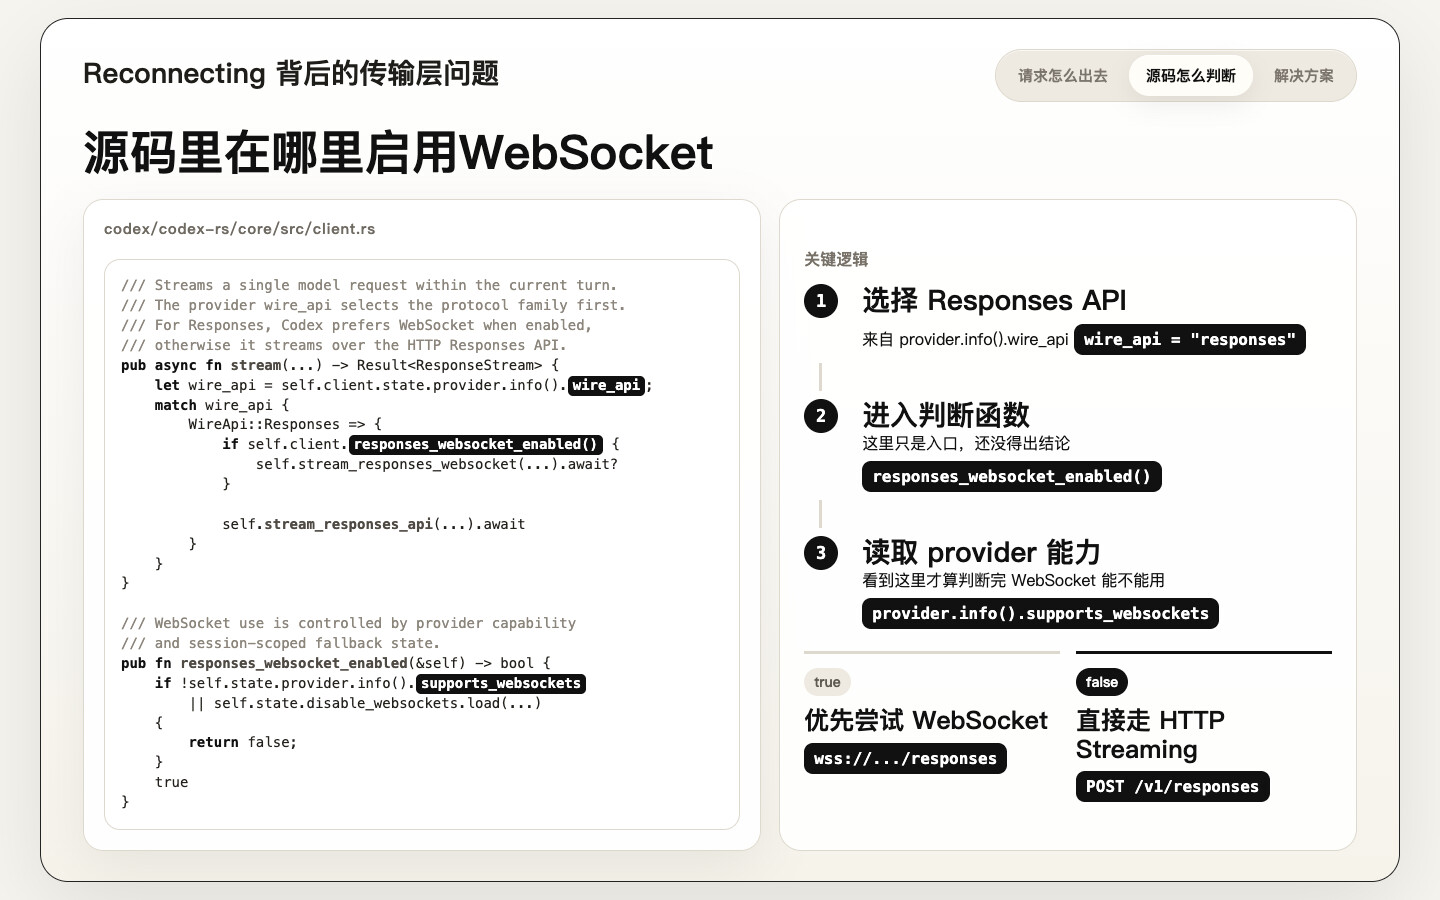
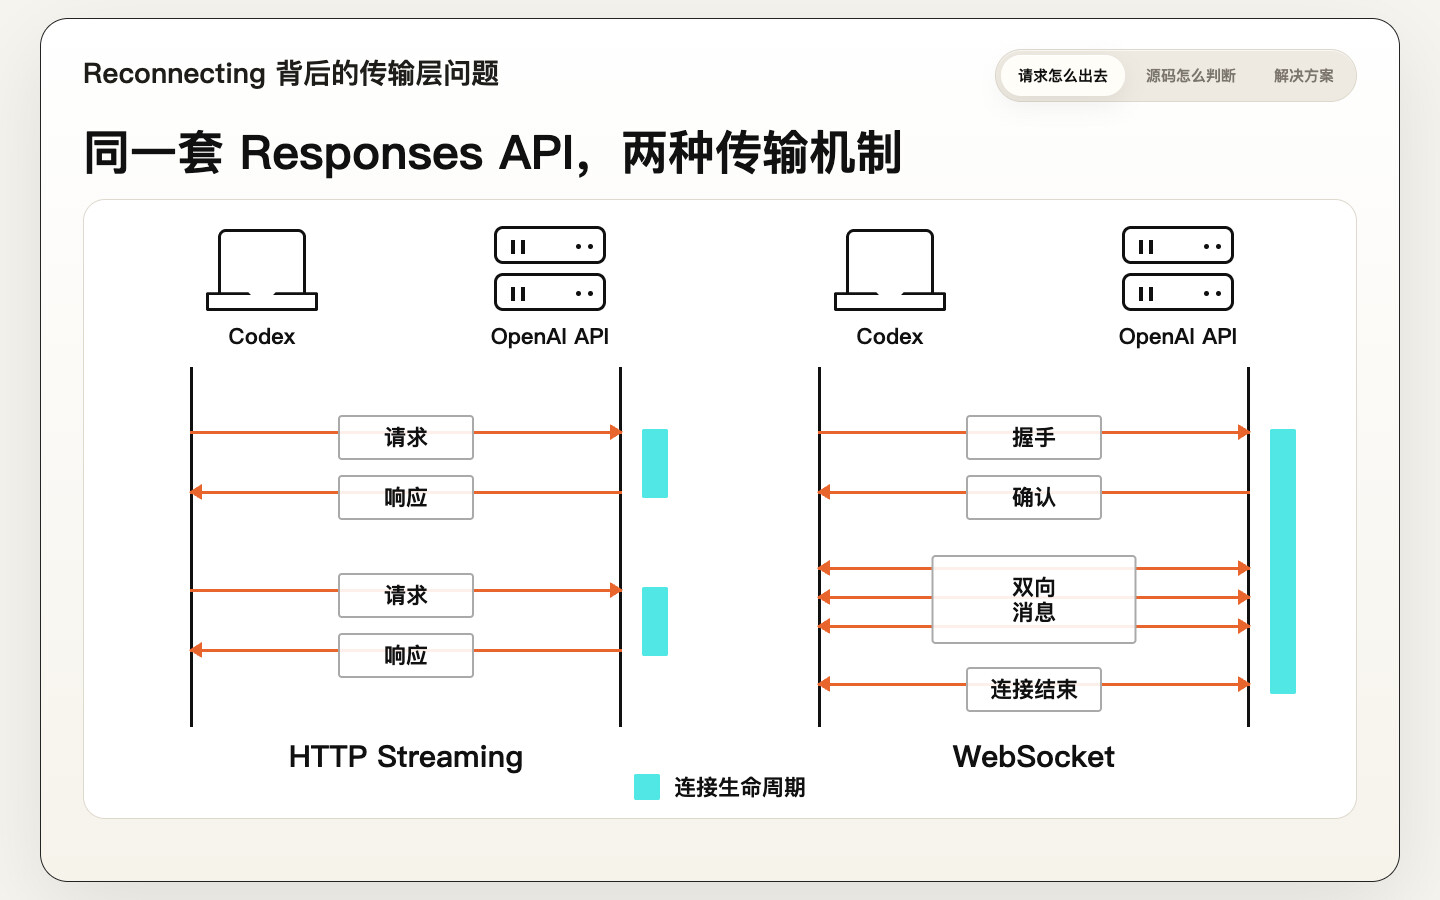
Update homepage copy and thumbnail

diff --git a/index.html b/index.html
@@ -3,7 +3,7 @@
 <head>
 <meta charset="UTF-8">
 <meta name="viewport" content="width=device-width, initial-scale=1.0">
-<title>Codex 工作原理 · HTML Slides</title>
+<title>Codex 工作原理</title>
 <style>
   * { box-sizing: border-box; margin: 0; padding: 0; }
   body {
@@ -109,8 +109,8 @@
 <body>
   <div class="container">
     <header>
-      <h1>Codex 工作原理 · HTML Slides</h1>
-      <div class="sub">存放「Codex 工作原理」系列视频的交互式 HTML slides 和缩略图。</div>
+      <h1>Codex 工作原理</h1>
+      <div class="sub">存放「Codex 工作原理」系列视频的交互式 HTML</div>
     </header>
 
     <main class="list">
@@ -119,7 +119,7 @@
         <div class="body">
           <div class="episode">069</div>
           <div class="title">Reconnecting 背后的传输层问题</div>
-          <div class="desc">Responses API · WebSocket · HTTP streaming</div>
+          <div class="desc">Responses API · WebSocket</div>
         </div>
         <div class="arrow">→</div>
       </a>